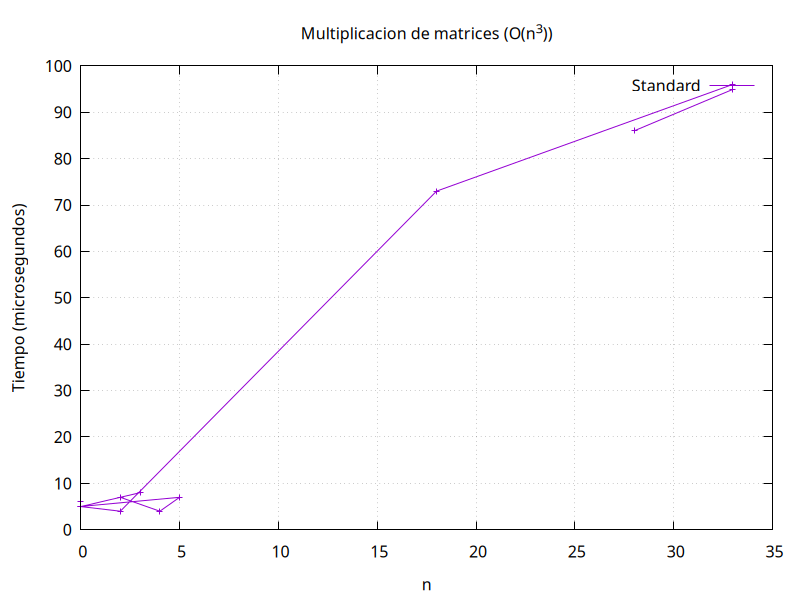
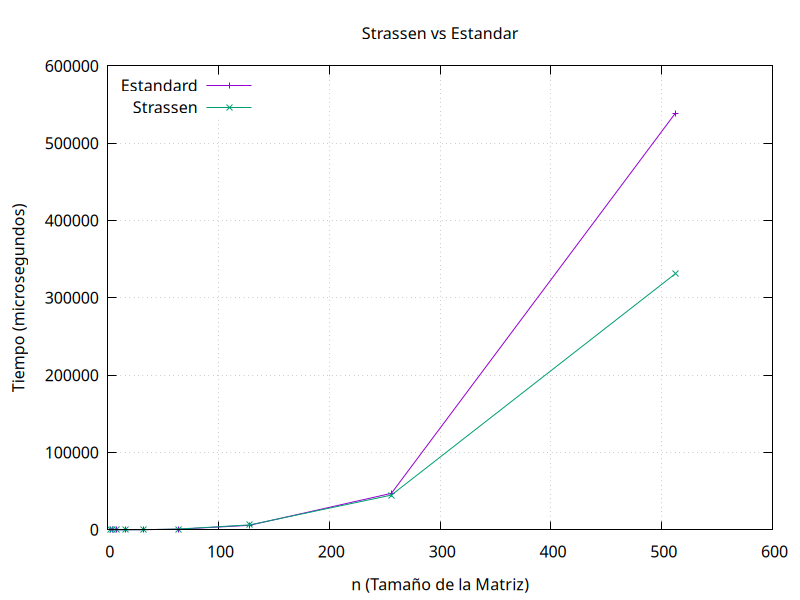
Experimento: comparación de Strassen vs Estándar iterando potencias de 2 hasta n = 512, gráfico muestra cruce aprox en n = 256, que demuestra la eficiencia de Strassen para n > 256

diff --git a/main.cpp b/main.cpp
@@ -7,6 +7,7 @@ using namespace std;
 
 typedef vector<vector<int>> Matriz;
 
+// Genera matriz con números aleatorios
 Matriz generateMatriz(int n) {
   Matriz newMatriz(n, vector<int>(n, 0));
   for(int i = 0; i < n; i++) {
@@ -17,6 +18,7 @@ Matriz generateMatriz(int n) {
   return newMatriz;
 }
 
+// Multiplicación Estándar
 Matriz multiplyStandar(const Matriz& a, const Matriz& b) {
   if(a.size() == 0 || b.size() == 0 || a.size() != b.size() ||
       a[0].size() != b[0].size() || a.size() != a[0].size()) {
@@ -34,7 +36,7 @@ Matriz multiplyStandar(const Matriz& a, const Matriz& b) {
   return c;
 }
 
-// Funciones Auxiliares para Streasen
+// Funciones Auxiliares para Streasen(Suma y Resta)
 Matriz sumar(const Matriz& a, const Matriz& b) {
   if(a.size() != b.size() || a.size() != a[0].size()) return Matriz();
   int n = a.size();
@@ -59,6 +61,7 @@ Matriz restar(const Matriz& a, const Matriz& b) {
   return c;
 }
 
+// Función Strassen
 Matriz strassen(const Matriz& a, const Matriz& b) {
   if(a.size() != b.size() || a.size() != a[0].size()) return Matriz();
   int n = a.size();
@@ -105,6 +108,7 @@ Matriz strassen(const Matriz& a, const Matriz& b) {
   return c;
 }
 
+// Mostrar Matriz
 void print(const Matriz& a) {
   int n = a.size();
   for(int i = 0; i < n; i++) {
@@ -115,42 +119,49 @@ void print(const Matriz& a) {
   }
 }
 
+// Calcula la diferencia de tiempo total
 static long long elapsedNanoseconds(struct timespec start, struct timespec end) {
   long long seconds = (long long)(end.tv_sec - start.tv_sec);
   long long nanoseconds = (long long)(end.tv_nsec - start.tv_nsec);
   return seconds * 1000000000LL + nanoseconds;
 }
 
+// Tiempo de ejecución de Algoritmo Estándar
+static double measureStandar(Matriz A, Matriz B) {
+  struct timespec start;
+  struct timespec end;
+
+  clock_gettime(CLOCK_MONOTONIC, &start);
+  multiplyStandar(A, B);
+  clock_gettime(CLOCK_MONOTONIC, &end);
+
+  return (double)elapsedNanoseconds(start, end) / 1000.0;
+}
+
+// Tiempo de ejecución de Algoritmo de Strassen
+static double measureStrassen(Matriz A, Matriz B) {
+  struct timespec start;
+  struct timespec end;
+
+  clock_gettime(CLOCK_MONOTONIC, &start);
+  strassen(A, B);
+  clock_gettime(CLOCK_MONOTONIC, &end);
+
+  return (double)elapsedNanoseconds(start, end) / 1000.0;
+}
+
 int main(){
   srand(time(0));
   
-  struct timespec start, end;
-  int size = 4;
-  /*
-  for(int size = 2; size <= 512; size *= 2) {*/
+  cout << "# n tiempo_standar tiempo_strassen" << endl;
+  for(int size = 2; size <= 512; size *= 2) {
     Matriz A = generateMatriz(size);
     Matriz B = generateMatriz(size);
-
-    cout << "Matriz A:" << endl;
-    print(A);
-    cout << "Matriz B:" << endl;
-    print(B);
-
-    /*clock_gettime(CLOCK_MONOTONIC, &start);
-    Matriz C = multiplyStandar(A, B);
-    clock_gettime(CLOCK_MONOTONIC, &end);
-  
-    cout << "Matriz C:" << endl;  
-    print(C);
-  
-    double tiempo = (double)elapsedNanoseconds(start, end) / 1000.0;
     
-    //Salida para gnuplot
-    cout << size << " " << tiempo << endl;
-    cout << "Tiempo de ejecucion: " << resultado << " us" << endl;
-  }*/
-  cout << "Matriz D(Resultado Stressen" << endl;
-  Matriz D = strassen(A, B);
-  print(D);
+    double tStandar = measureStandar(A, B);
+    double tStrassen = measureStrassen(A, B);
+
+    cout << size << " " << tStandar << " " << tStrassen << endl;
+  }
   return 0;
 }